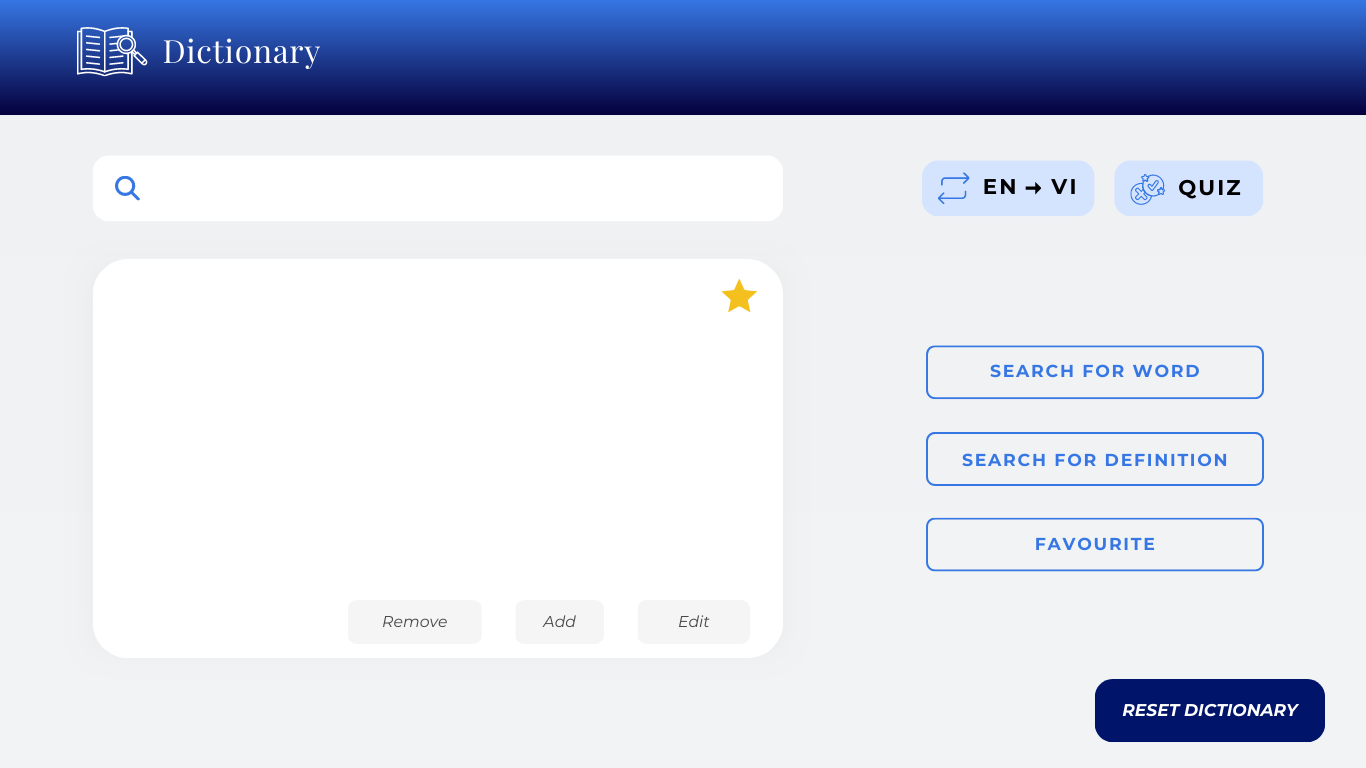
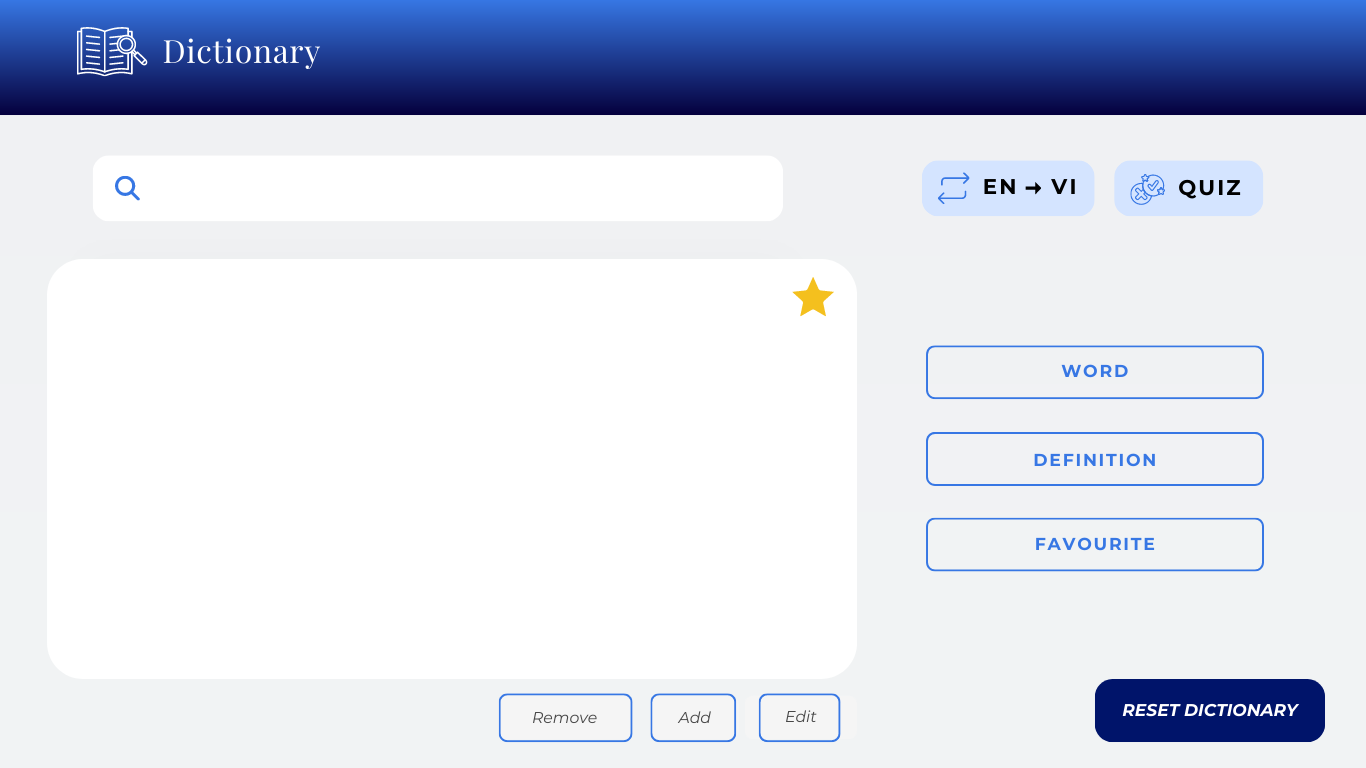
History and Suggest bar
History and Suggest bar

diff --git a/source/stuff/SearchBox.cpp b/source/stuff/SearchBox.cpp
@@ -10,8 +10,12 @@ SearchBox::SearchBox( int fontSize,  Rectangle rectangle) {
 	this->fontSize = fontSize;
 	this->rectangle = rectangle;
     this->framecount = 0;
+    this->blank = LoadImage(Constants::Directories::DMQ::Blank);
+    this->texture = LoadTextureFromImage(blank);
+    this-> mouse = 0;
+    this->currentClick = -1;
+    this->currentMouse = -1;
 }
-
 void SearchBox::draw() {
     if (islessthan35())
         DrawText(rawText.c_str(), (int)rectangle.x + 55, (int)rectangle.y + 20, 30, BLACK);
@@ -34,8 +38,13 @@ void SearchBox::draw() {
         else
             DrawText("Press BACKSPACE to delete chars...", 230, 300, 30, GRAY);
     }
-}
+    //List for Suggest
+    if (rawText.length() > 0)
+        List(10);
+    //List for History
+    //      List(10,History)
 
+}
 void SearchBox::handleEvents() {
     
    
@@ -66,7 +75,6 @@ void SearchBox::handleEvents() {
         framecount++;
     else framecount = 0;
 }
-
 void SearchBox::update() {
     if(strlen(rawText.c_str()) > 35)
     {
@@ -79,8 +87,8 @@ void SearchBox::update() {
         }
         text[35] = '\0';
     }
+    UpdtList(10);
 }
-
 bool SearchBox::mouseonText()
 {
     if (CheckCollisionPointRec(GetMousePosition(), rectangle))
@@ -89,7 +97,6 @@ bool SearchBox::mouseonText()
     }
     return 0;
 }
-
 bool SearchBox::isClicked()
 {
     if (CheckCollisionPointRec(GetMousePosition(), rectangle) && IsMouseButtonReleased(MOUSE_BUTTON_LEFT))
@@ -101,11 +108,64 @@ bool SearchBox::isClicked()
     }
     return 0;
 }
-
 bool SearchBox::islessthan35()
 {
     if (rawText.length() <= 35)
         return true;
     return false;
+}
+
+void SearchBox::List(int num)
+{
+    //test
+    const char* name[] = { "1HelloQuang","2HelloQuang","3HelloQuang","4HelloQuang","5","6","7","8","9","10","11","12","13","14","15","16","17","18","19","20" };
+
+    Rectangle sourceRect = { 0, 0,  texture.width, texture.height / 2};
+    for (int j = 0; j < num; j++)
+    {
+        DrawTextureRec(texture, sourceRect, { 92.5, (float)(155.3 + (66.1 / 2) * (j + 2)) }, WHITE);
+        //if((int) (j-i) >=0)
+        // name[i] : obj of List
+        DrawText(name[j - mouse], 95, 155.3 + 66.1 / 2 * (j + 2), 20, BLACK);
+    }
+    if(currentMouse!=-1)
+    {
+        DrawTextureRec(texture, sourceRect, { 92.5, (float)(155.3 + (66.1 / 2) * (currentMouse + 2)) }, LIGHTGRAY);
+        DrawText(name[currentMouse - mouse], 95, 155.3 + 66.1 / 2 * (currentMouse + 2), 20, BLACK);
+    }
+    if (currentClick != -1)
+    {
+        DrawText(name[currentClick - mouse], 95, 155.3 + 66.1 / 2 * (currentClick + 2), 20, BLACK);
+        DrawTextureRec(texture, sourceRect, { 92.5, (float)(155.3 + (66.1 / 2) * (currentClick + 2)) }, GRAY);
+    }
+    DrawRectangleLines(92.5, 155.3 + 66.1, 690.7, +66.1 / 2 * num, BLACK);
+}
+
+void SearchBox::UpdtList(int num)
+{
+    if (GetMouseWheelMove() > 0 && mouse < 0)   // scroll up
+        mouse += 1;
+    else if (GetMouseWheelMove() < 0 && mouse > -num) //scroll down
+        mouse -= 1;
+    /////////
+    for (int i = 0; i < 10; i++)
+    {
+        if (CheckCollisionPointRec(GetMousePosition(), { 92.5, (float)(155.3 + (66.1 / 2) * (i + 2)), 690.7, 66.1/2 }))
+        {
+            // Code to be executed when the button is clicked
+            currentMouse = i;
+            if (IsMouseButtonReleased(MOUSE_BUTTON_LEFT))
+            {
+                if (currentClick != i) {
+                    //Code to be executed when the button is clicked
+                    currentClick = i;
+                    //DrawText(TextFormat(std::to_string(currentclick).c_str))
+                }
+                else
+                    currentClick = -1;
+            }
+        }
+    }
+    /////////
 }
 

diff --git a/source/Window.cpp b/source/Window.cpp
@@ -55,6 +55,32 @@ void Window::draw(int& currentclick) {
             }
         }
     }
+    switch (currentmouse)
+    {
+    case 0:
+    {
+        Image i = LoadImage(Constants::Directories::DMQ::SearchWord);
+        Texture2D tex = LoadTextureFromImage(i);
+        DrawTexture(tex, 926, 345.3, LIGHTGRAY);
+        break;
+    }
+    case 1:
+    {
+        Image i = LoadImage(Constants::Directories::DMQ::SearchDef);
+        Texture2D tex = LoadTextureFromImage(i);
+        DrawTexture(tex, 926, 431.9, LIGHTGRAY);
+        break;
+    }
+    case 2:
+    {
+        Image i = LoadImage(Constants::Directories::DMQ::Favourite);
+        Texture2D tex = LoadTextureFromImage(i);
+        DrawTexture(tex, 926, 517.5, LIGHTGRAY);
+        break;
+    }
+    default:
+        break;
+    }
     switch (currentclick)
     {
         case 0:
@@ -84,32 +110,7 @@ void Window::draw(int& currentclick) {
 
 
 
-    switch (currentmouse)
-    {
-        case 0:
-        {
-            Image i = LoadImage(Constants::Directories::DMQ::SearchWord);
-            Texture2D tex = LoadTextureFromImage(i);
-            DrawTexture(tex, 926, 345.3, LIGHTGRAY);
-            break;
-        }
-        case 1:
-        {
-            Image i = LoadImage(Constants::Directories::DMQ::SearchDef);
-            Texture2D tex = LoadTextureFromImage(i);
-            DrawTexture(tex, 926, 431.9, LIGHTGRAY);
-            break;
-        }
-        case 2:
-        {
-            Image i = LoadImage(Constants::Directories::DMQ::Favourite);
-            Texture2D tex = LoadTextureFromImage(i);
-            DrawTexture(tex, 926, 517.5, LIGHTGRAY);
-            break;
-        }
-        default:
-            break;
-    }
+   
 
     // Draw the text input box
     // NOTE: We pass a pointer to the text array and the max characters allowed
@@ -228,7 +229,6 @@ void Window::drawTextbox(Rectangle textBox)
 
 
 }
-
 void Window::drawline()
 {
 

diff --git a/source/Window.h b/source/Window.h
@@ -30,10 +30,10 @@ private:
     SearchBox searchBox;
     //Button_Coordinate
      //Box and Des
-    Rectangle Star = { 721.3 ,278.4 ,47.5 ,45.2 };
+    Rectangle Star = { 792.1 ,276.6 ,47.5 ,45.2 };
     Rectangle Find = { 110,170.7,30.2,30.2 };
     Rectangle textBox = { 92.5, 155.3, 690.7, 66.1 };
-    Rectangle Description = { 92.5,259,690.7,399.3 };
+    Rectangle Description = { 47,259,810,420 };
     //Option 
     Rectangle SwitchDataSet = { 920,160,150,40 };
     Rectangle Quiz = { 1110,160,130,50 };
@@ -42,9 +42,9 @@ private:
     Rectangle SearchDef = { 926,431.9,337.5,54.4 };
     Rectangle Favourite = { 926,517.5,337.5,54.4 };
     //Change Struct
-    Rectangle Edit = { 636.3,591.2,113.7,44.3 };
-    Rectangle RemoveWord = { 343.3,591.2,135.6,44.3 };
-    Rectangle AddWord = { 512.7,591.2,89.8,44.3 };
+    Rectangle Edit = { 758.6,690.8,81.8,49 };
+    Rectangle RemoveWord = { 498.6,693.2,133.7,49 };
+    Rectangle AddWord = { 650.3,693.2,86.1,49 };
     Rectangle ResetDict = { 1096.9,678.5,230.4,63.3 };
     //update function
     void updateTextbox();

diff --git a/source/stuff/SearchBox.h b/source/stuff/SearchBox.h
@@ -7,7 +7,7 @@
 
 #include "raylib.h"
 #include "raygui.h"
-
+#include "Constants.h"
 #include <string>
 
 class SearchBox {
@@ -19,7 +19,11 @@ private:
     std::string imgPath;
     Rectangle rectangle;
     int framecount;
-
+    Image blank;
+    Texture texture;
+    int mouse;
+    int currentClick;
+    int currentMouse;
 public:
     SearchBox() = default;
     SearchBox( int fontSize, Rectangle rectangle);
@@ -30,7 +34,10 @@ public:
     bool mouseonText();
     bool isClicked();
     bool islessthan35();
-   // int isCluck();
+    //List
+    void List(int num);
+    void UpdtList(int num);
+   
 };
 
 
